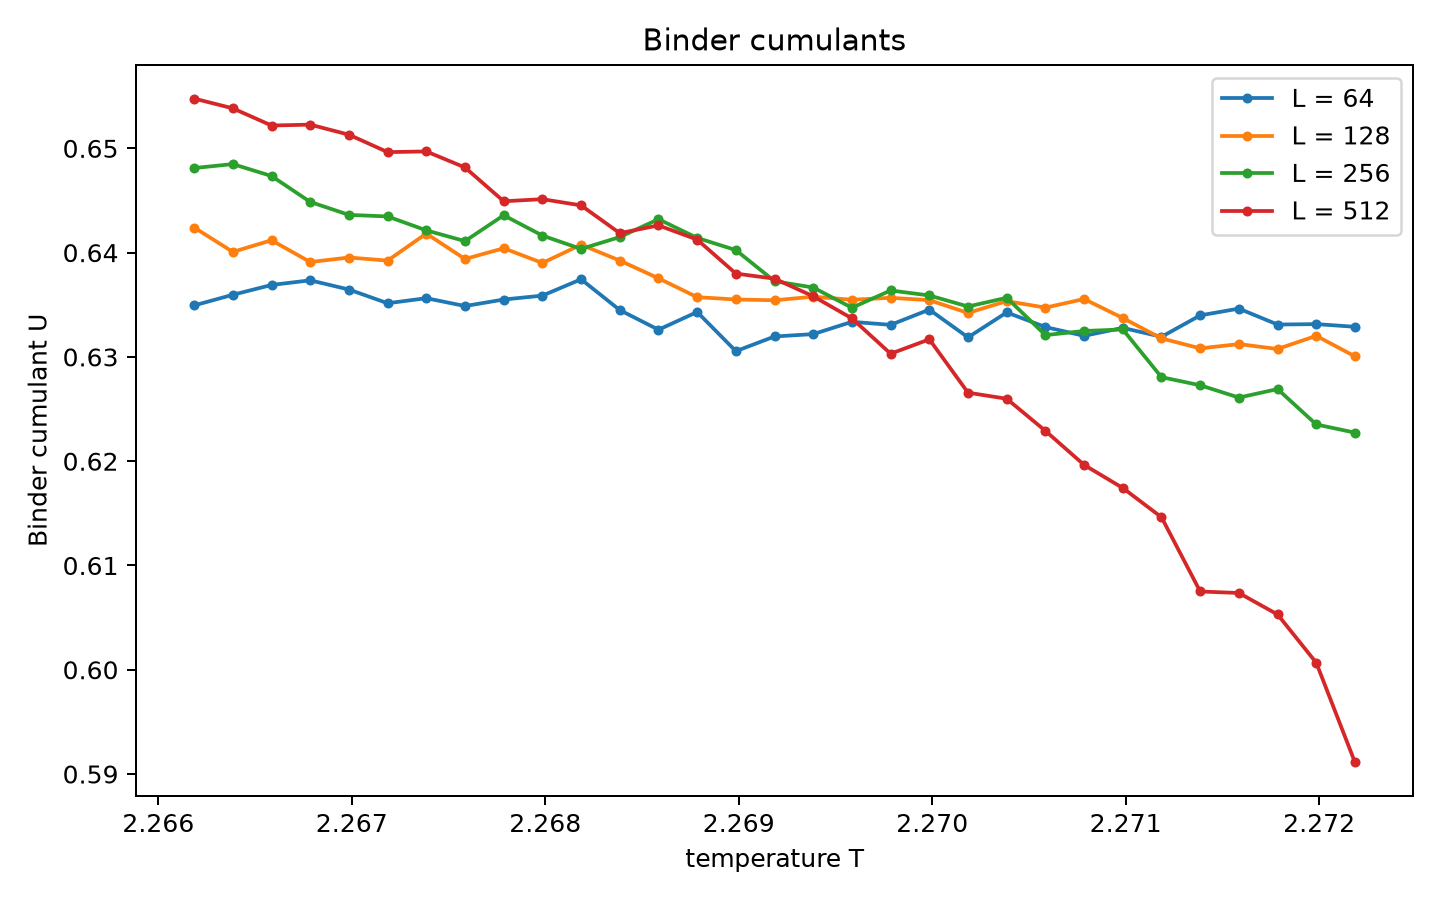
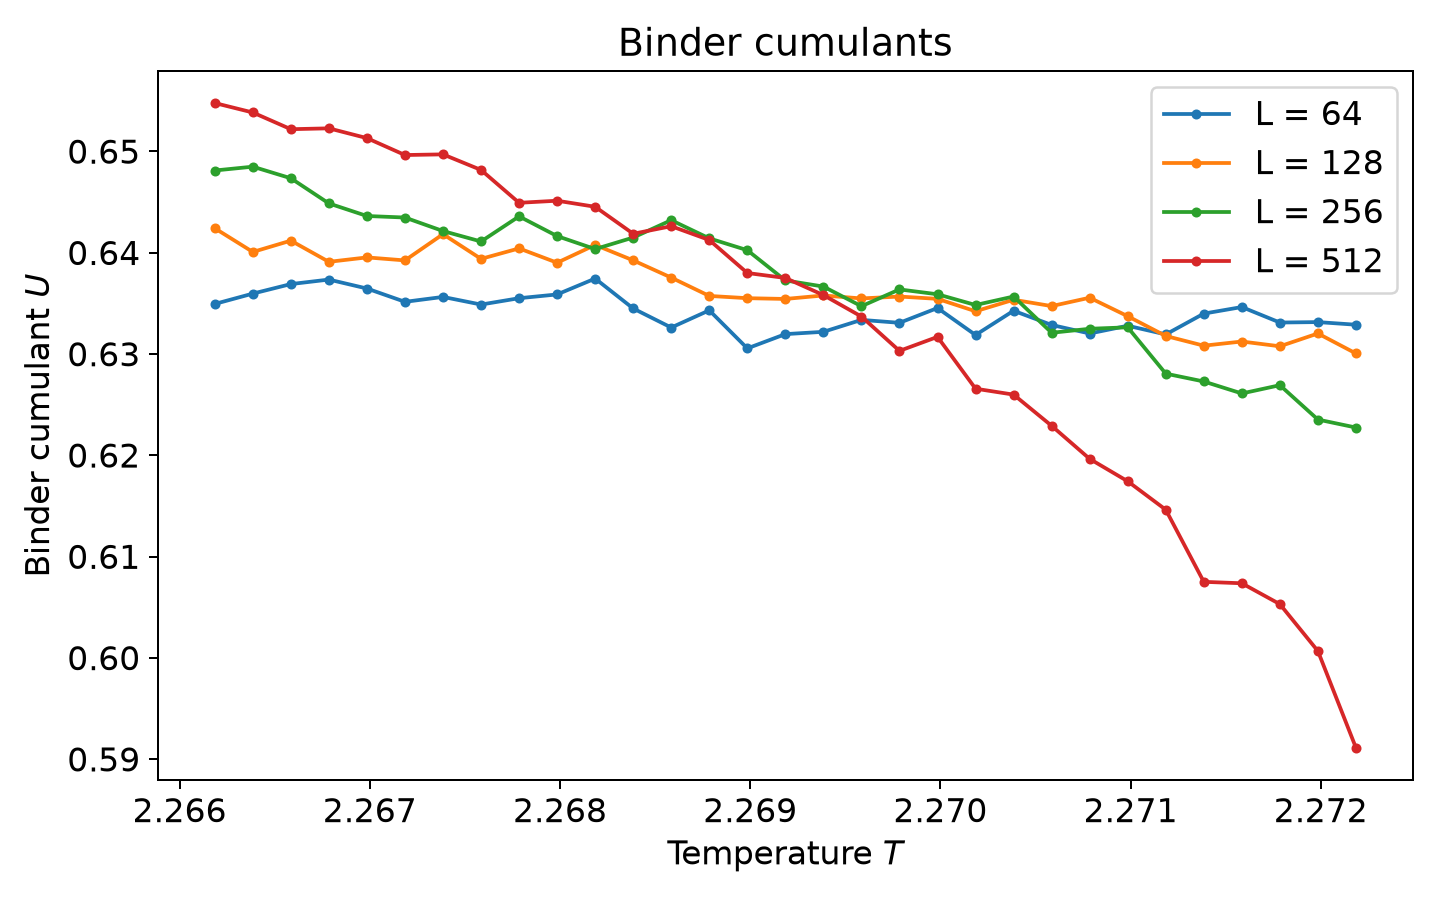
updated binder graphs

diff --git a/ising_graphs.py b/ising_graphs.py
@@ -243,139 +243,3 @@ ax.set(
 fig.tight_layout()
 fig.savefig("graph_heat_capacity.png", dpi=180)
 plt.show()
-
-
-
-
-# -*- coding: utf-8 -*-
-"""
-Created on Mon Dec 11 11:33:01 2017
-
-@author: capel102
-Versie 2024
-
-Met dit script kun je een fit aan een set data maken. Fitten is: parameters in 
-een model zo aanpassen dat de modelwaarden het best overeenkomen met de gemeten data.
-De wiskundige achtergrond van fitten en de precieze werking van de fitroutine 
-wordt behandeld in het onderdeel DATA-V.
-
-Als gebruiker geef je als input:
-    (1) De data. We nemen aan dat de dataset bestaat uit waarden voor de onafhankelijke 
-    grootheid (in het script x genoemd) met onzekerheden (sig_x), en bijbehorende
-    waarden voor de afhankelijke grootheid (deze noemen we y) met onzekerheden (sig_y)
-    (2) Het model
-    (3) Startwaarden voor de parameters, zodat de fit vlakbij de beste parameterwaardes start
-    
-(4)-(7) zijn de commando's waarmee de fit wordt gedefinieerd en uitgevoerd. 
-    
-Als output krijg je:
-    (8) De beste schatters voor parameterwaarden met onzekerheden en overige 
-    statistische informatie (dit wordt in de loop van DATA-V behandeld)
-    (9) Een (onopgemaakte) plot met data en het model met de beste schatters voor 
-    de parameters ingevuld. 
-
-De standaardopzet van het script doet een fit volgens het model y = A + Bx, en in de 
-comments hebben we een kwadratisch model voorgeprogrammeerd. Je kunt zelf een ander
-model definiÃ«ren dat goed bij jouw situatie past.
-"""
-
-
-##### Gebruikersinput
-
-### (1) Fictieve dataset x- en y-waarden, beide met onzekerheid
-x = np.array(T_values) # Onafhankelijke grootheid
-#sig_x = np.array([0.1, 0.3, 0.2, 0.5, 0.1]) # Onzekerheid onafhankelijke grootheid - mag niet nul zijn!
-y = np.array(data[:,4]) # Afhankelijke grootheid
-sig_y = np.array(data[:,5]) # Onzekerheid afhankelijke grootheid - mag niet nul zijn!
-
-### (2) Modelfunctie
-
-# Rechte lijn y = A + Bx
-# B is een vector met de parameters, in dit geval twee (A = B[0], B = B[1])
-# x is de array met de x waarden
-# def f(B, x):
-#     return B[0] + B[1]*x
-
-# Uitgecomment: parabool y = A + Bx + C x^2
-# In dit geval heeft de vector B dus drie elementen (A = B[0], B = B[1], C = B[2])
-# def f(B, x):
-#     return B[0] + B[1]*x + B[2]*x**2
-
-def f(B, x):
-    return B[0] + B[1] * np.exp(
-        -(x - B[2])**2 / (2 * B[3]**2)
-    )
-
-B_start = [0.5, 1.0, 2.3, 0.3]
-
-### (3) Startwaarden voor parameters
-# B_start = [0.5, 2.0] # Voor de rechte lijn
-# B_start = [0.5, 2.0, 0.1] # Voor de parabool
-
-# (3a) Het is goed om de dataset te plotten samen met het model met de startwaarden 
-# ingevuld. Zo kun je inschatten of de startwaarden voor parameters goed zijn. 
-plt.figure()
-plt.errorbar(x,y,yerr=sig_y,fmt='ko')
-plt.plot(x, f(B_start,x), 'b-')
-plt.show()
-
-#%%
-
-##### Fit
-
-###  (4) Definieer het model-object om te gebruiken in odr
-odr_model = odr.Model(f)
-
-### (5) Definieer een RealData object
-## Een RealData-object vraagt om de onzekerheden in beide richtingen. 
-## !! De onzekerheid in de x-richting mag ook nul zijn (dan mag je sx=0 weglaten), 
-## maar dan moet bij onderdeel (6)/(6a) wel gekozen worden voor een
-## kleinste-kwadratenaanpassing !!
-odr_data  = odr.RealData(x,y,sy=sig_y)
-
-### (6) Maak een ODR object met data, model en startwaarden
-## Je geeft startwaarden voor parameters mee bij keyword beta0
-odr_obj   = odr.ODR(odr_data,odr_model,beta0=B_start)
-### (6a) Stel in op kleinste kwadraten (optioneel)
-## Als de onzekerheden in de x-richting gelijk zijn aan nul, dan faalt de 
-## default-aanpak van ODR. Je moet dan als methode een kleinste-kwadraten- 
-## aanpassing instellen. Dit gaat met het volgende commando (nu uit):
-odr_obj.set_job(fit_type=2)
-
-### (7) Voer de fit uit
-## Dit gebeurt expliciet door functie .run() aan te roepen
-odr_res   = odr_obj.run()
-
-#%%
-
-##### Output
-
-### (8) Haal resultaten uit het resultaten-object:
-# (8a) De beste schatters voor de parameters
-par_best = odr_res.beta
-# (8b) De (EXTERNE!) onzekerheden voor deze parameters
-par_sig_ext = odr_res.sd_beta
-# (8c) De (INTERNE!) covariantiematrix
-par_cov = odr_res.cov_beta 
-print(" De (INTERNE!) covariantiematrix  = \n", par_cov)
-# (8d) De chi-kwadraat en de gereduceerde chi-kwadraat van deze aanpassing
-chi2 = odr_res.sum_square
-print("\n Chi-squared         = ", chi2)
-chi2red = odr_res.res_var
-print(" Reduced chi-squared = ", chi2red, "\n")
-# (8e) Een compacte weergave van de belangrijkste resultaten als output
-odr_res.pprint()
-
-### (9) Plot van de fit met de dataset. 
-# De plot is onopgemaakt, je zult zelf asbijschriften moeten toevoegen, 
-# plotbereik kiezen etc. om hem mooi te maken. 
-# Om het model wat meer punten te geven, maken we daarvoor een aparte lijst x-waarden 
-xplot = np.linspace(np.min(x),np.max(x),num=1000)
-plt.figure()
-plt.errorbar(x,y,yerr=sig_y,fmt='ko')
-plt.plot(xplot,f(par_best,xplot),'r-')
-plt.show()
-# Naar keuze: exporteren als png of pdf in een directory naar keuze
-#plt.savefig('fit.png', dpi=300, bbox_inches='tight')
-#plt.savefig('fit.pdf', bbox_inches='tight')
-

diff --git a/binder_cumulant.py b/binder_cumulant.py
@@ -183,19 +183,27 @@ for L in L_values:  #voor elke roostergrootte:
             run_curves[L][repeat].append(binder(mean_m2, mean_m4))  #bewaar U per repeat voor de errors
         curves[L].append(binder(np.mean(m2_values), np.mean(m4_values)))  #U met alle repeats samen
 
+
+script_dir = os.path.dirname(__file__)
+graphs_dir = os.path.join(script_dir, 'final_graphs/')
+
+if not os.path.isdir(graphs_dir):
+    os.makedirs(graphs_dir)
+
 fig, ax = plt.subplots(figsize=(8, 5))
 for L in L_values:  #teken 1 curve voor iedere grootte
     ax.plot(T_values, curves[L], "o-", ms=3, label=f"L = {L}") #teken ook de lijnen tussen punten om snijpunten te laten zien
 
-ax.set(
-    title="Binder cumulants",
-    xlabel="temperature T",
-    ylabel="Binder cumulant U",
-)
-ax.legend()
+ax.set_title("Binder cumulants", fontsize='15')
+ax.set_xlabel("Temperature $\it{T}$", fontsize='13')
+ax.set_ylabel("Binder cumulant $\it{U}$", fontsize ='13')
+plt.xticks(fontsize = '13')
+plt.yticks(fontsize = '13')
+ax.legend(fontsize='13')
 fig.tight_layout()
-fig.savefig("binder_cumulants.png", dpi=180)
+fig.savefig(graphs_dir + "binder_cumulants.png", dpi=180)
 plt.show()
+
 
 #vergelijk steeds twee opeenvolgende L waarden om hun Tc snijpunt te vinden
 for L1, L2 in zip(L_values[:-1], L_values[1:]):
@@ -238,8 +246,12 @@ print(f"nu from Binder slopes: {nu:.4f} ± {nu_error:.4f}")
 fig, ax = plt.subplots(figsize=(6, 4))  #tweede plot voor de 'nu' fits
 ax.loglog(L_values, mean_slopes, "o", label="measured slopes")  #meetpunten in log-log ruimte
 ax.loglog(L_values, np.exp(fit[1]) * np.asarray(L_values) ** fit[0], "-", label=f"1/nu = {fit[0]:.3f}")  # fit lijn
-ax.set(xlabel="lattice size L", ylabel=r"$|dU/dT|$")
-ax.legend()
+ax.set_xlabel("Lattice size $\it{L}$", fontsize='13')
+ax.set_ylabel(r"$|dU/dT|$", fontsize ='13')
+plt.xticks(fontsize = '13')
+plt.yticks(fontsize = '13')
+ax.legend(fontsize = '13')
 fig.tight_layout()
-fig.savefig("binder_slopes.png", dpi=180)
+fig.savefig(graphs_dir + "binder_slopes.png", dpi=180)
 plt.show()
+
